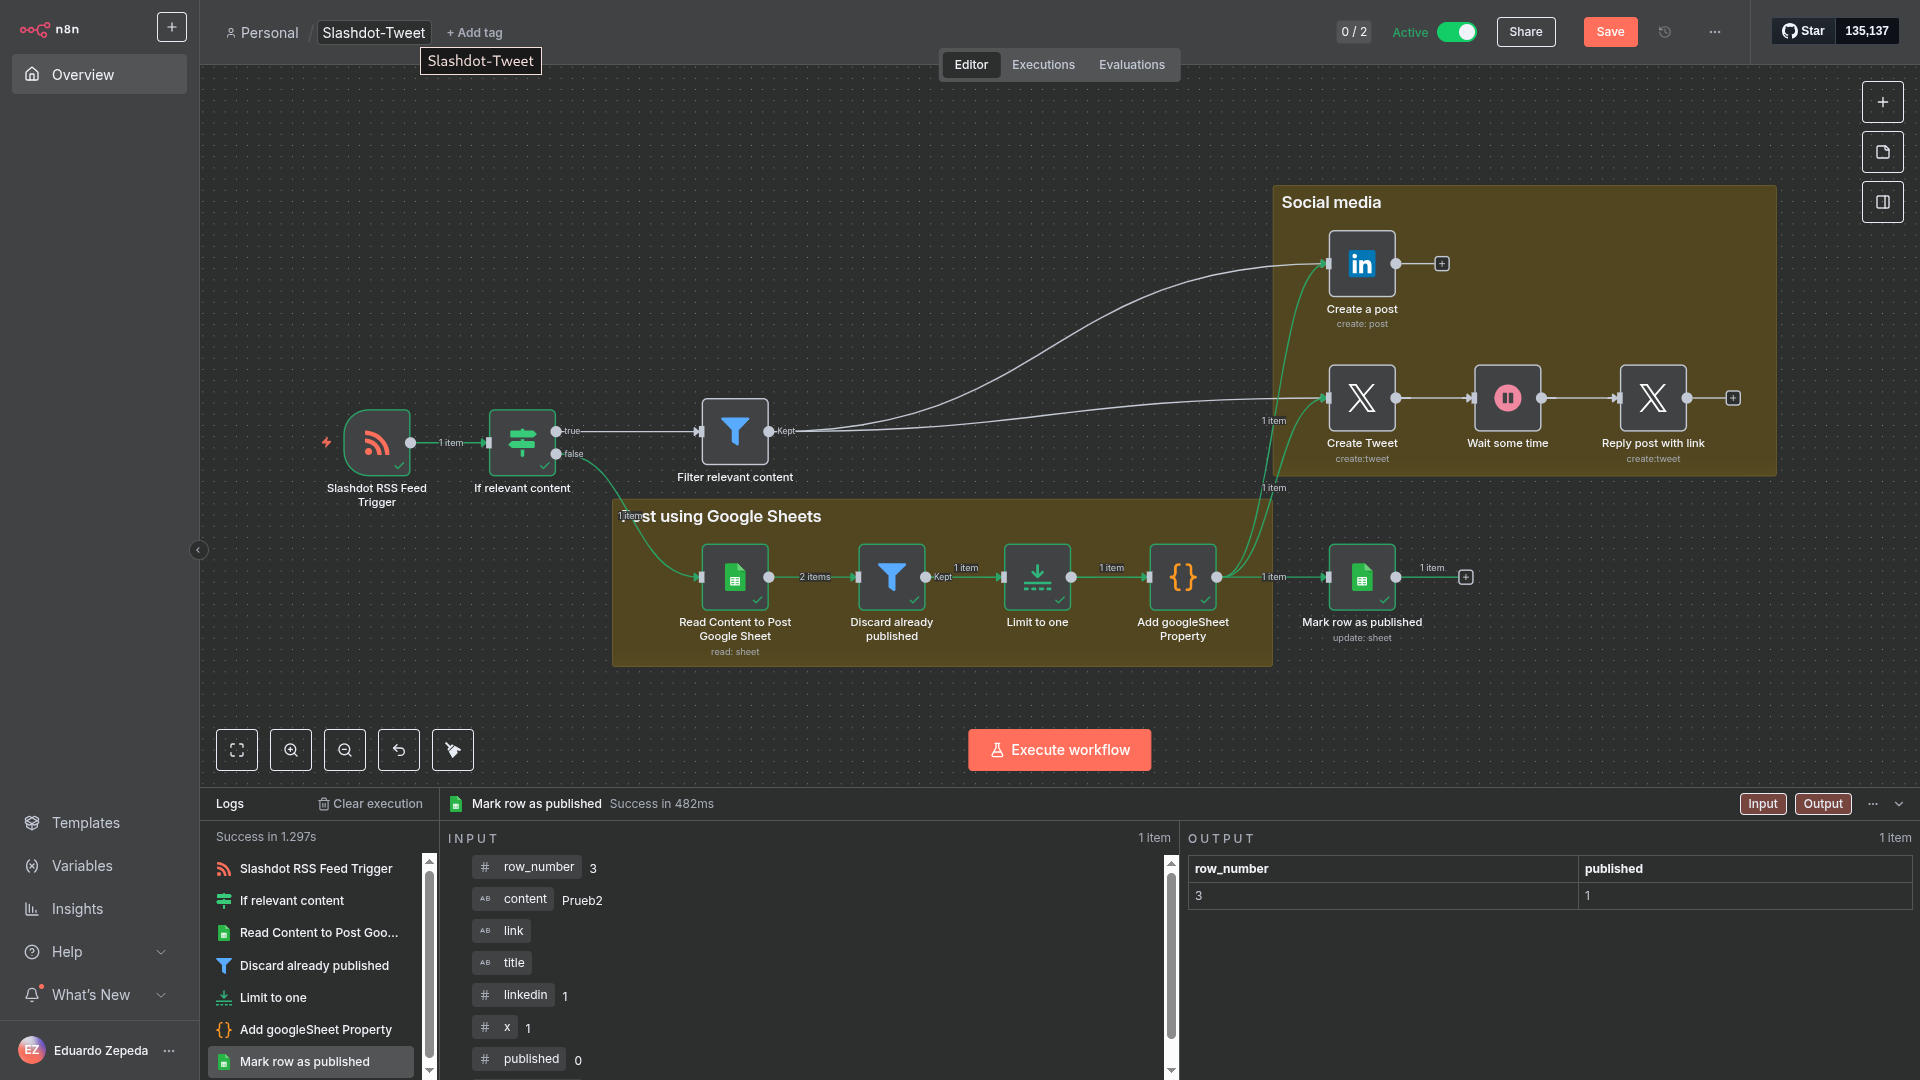
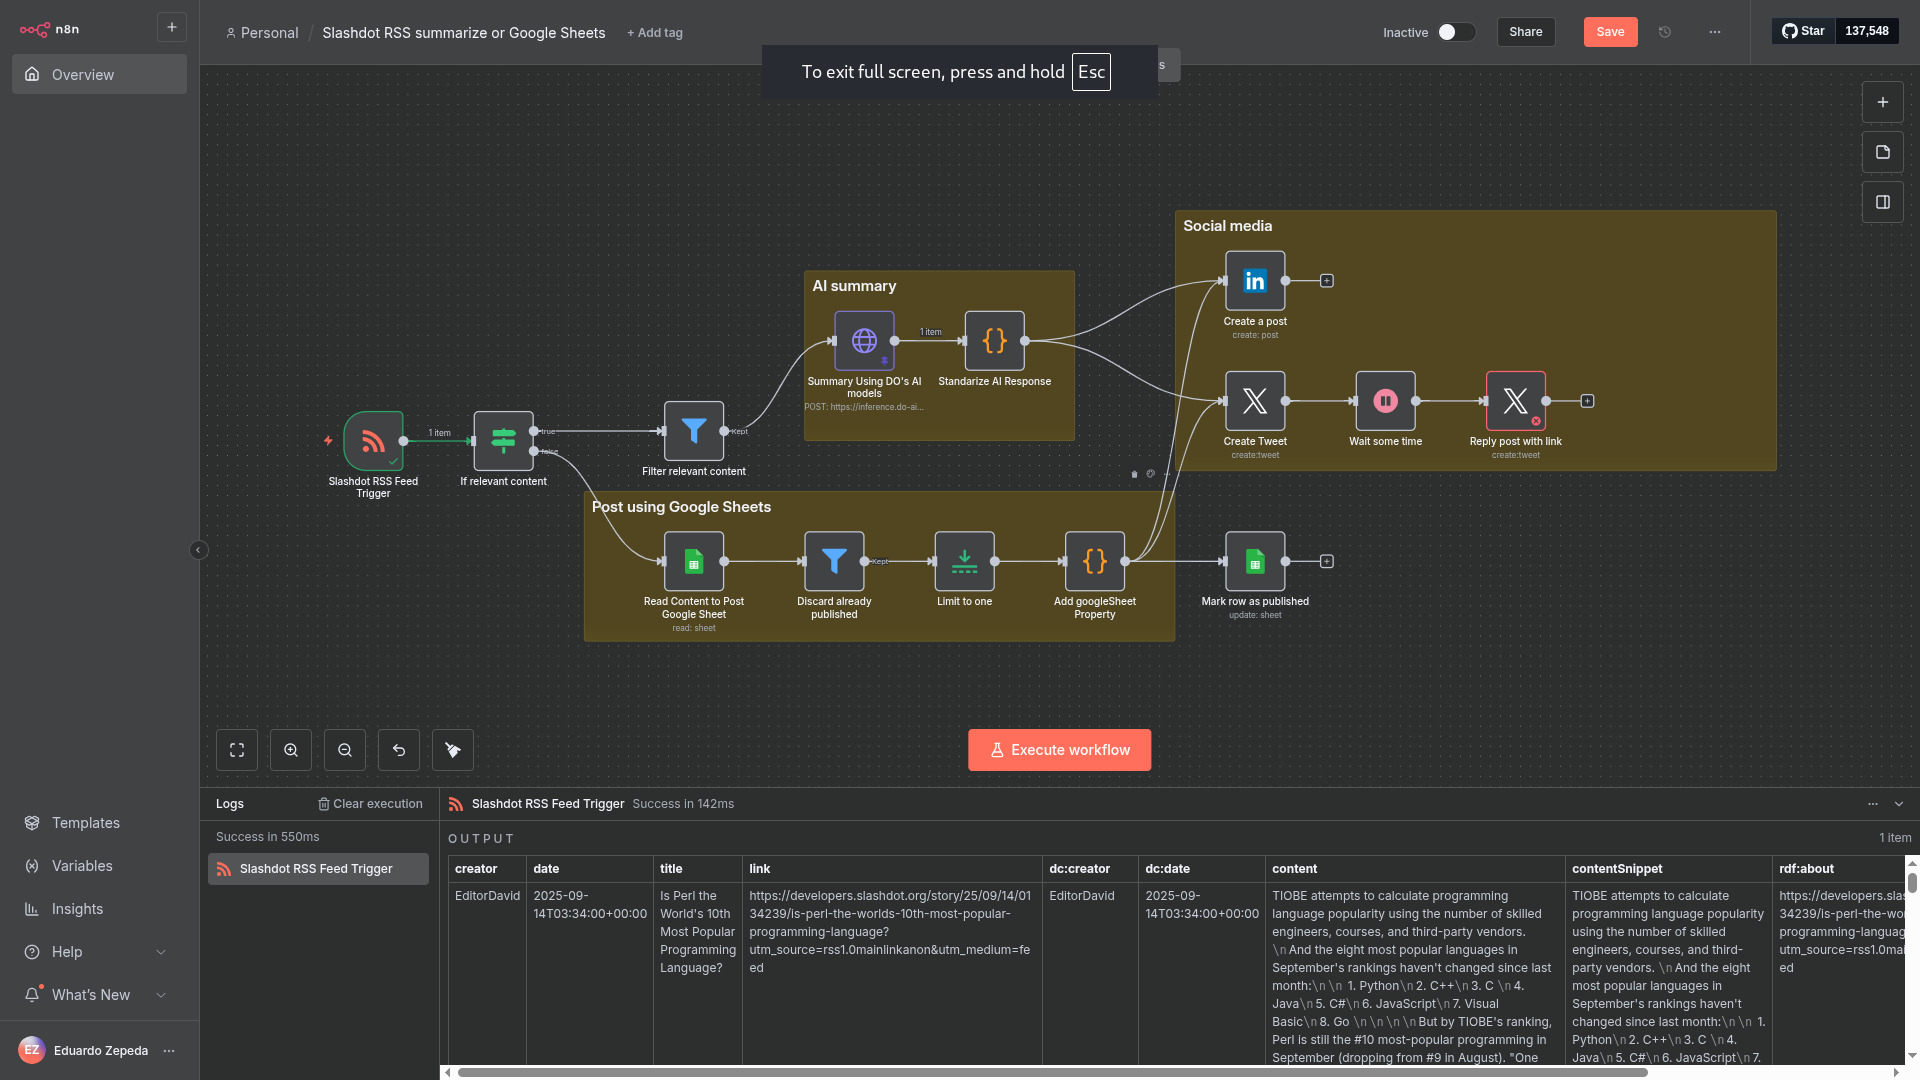
Update n8n description

diff --git a/siteData.ts b/siteData.ts
@@ -92,10 +92,10 @@ export const portfolioData: PortfolioProject[] = [
     {
         imgSrc: '/portfolio/N8nSlashdot.jpg',
         title: 'n8n\'s Slashdot To Social Media',
-        info: 'n8n workflow that reads slashdot\'s XML feed, filter posts by relevant topics and post summary and link on Linkedin and X, with a Google Sheets Tweets fallback',
+        info: 'n8n workflow that reads slashdot\'s XML feed, filter posts by relevant topics and post summary, create a digest using Artificial Intelligence and post it on Linkedin and X along with their links. If no relevant posts found grab a post from Google Sheets',
         websiteLink: 'https://github.com/EduardoZepeda/n8n-slashdot-to-x-and-ln',
         sourceCodeLink: 'https://github.com/EduardoZepeda/n8n-slashdot-to-x-and-ln',
-        stack: 'n8n'
+        stack: 'n8n, AI'
     },
     {
         imgSrc: '/portfolio/CoffeeBytes.jpg',
